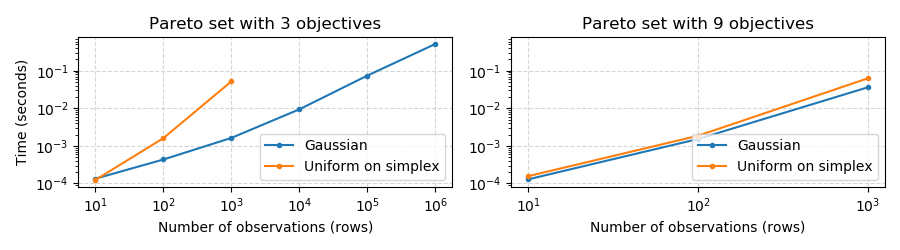
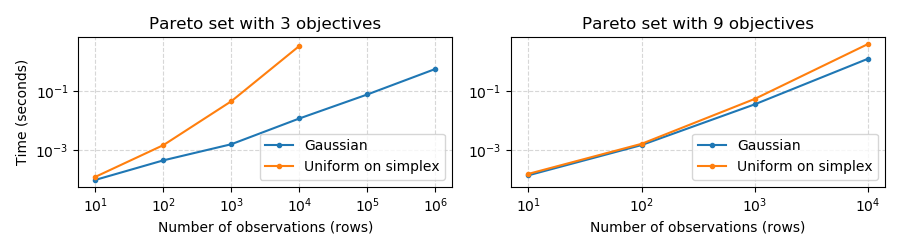
timing implementations. using Numba in main function if available

diff --git a/paretoset/user_interface.py b/paretoset/user_interface.py
@@ -6,6 +6,9 @@ from paretoset.utils import user_has_package, validate_inputs
 if user_has_package("pandas"):
     import pandas as pd
 
+if user_has_package("numba"):
+    from paretoset.algorithms_numba import paretoset_jit
+
 
 def paretoset(costs, sense=None, distinct=True, use_numba=True):
     """Return mask indicating the Pareto set of a NumPy array or pandas DataFrame.
@@ -49,12 +52,17 @@ def paretoset(costs, sense=None, distinct=True, use_numba=True):
     array([ True,  True])
     """
 
+    if user_has_package("numba") and use_numba:
+        paretoset_algorithm = paretoset_jit
+    else:
+        paretoset_algorithm = paretoset_efficient
+
     costs, sense = validate_inputs(costs=costs, sense=sense)
 
     # TODO: INF and NaN
 
     if sense is None:
-        return paretoset_efficient(costs, distinct=distinct)
+        return paretoset_algorithm(costs, distinct=distinct)
 
     n_costs, n_objectives = costs.shape
 
@@ -72,6 +80,11 @@ def paretoset(costs, sense=None, distinct=True, use_numba=True):
         return paretoset_efficient(costs, distinct=distinct)
 
     df = pd.DataFrame(costs)
+
+    # If `object` columns are present and they can be converted, do it.
+    for col in df.columns:
+        df[col] = pd.to_numeric(df[col], errors="coerce")
+
     is_efficient = np.zeros(n_costs, dtype=np.bool_)
 
     # Create the groupby object
@@ -83,8 +96,8 @@ def paretoset(costs, sense=None, distinct=True, use_numba=True):
     for key, data in groupby:
 
         # Get the relevant data for the group and compute the efficient points
-        relevant_data = data[max_cols + min_cols].to_numpy()
-        efficient_mask = paretoset_efficient(relevant_data.copy(), distinct=distinct)
+        relevant_data = data[max_cols + min_cols].to_numpy(copy=True)
+        efficient_mask = paretoset_algorithm(relevant_data.copy(), distinct=distinct)
 
         # The `pd.DataFrame.groupby.indices` dict holds the row indices of the group
         data_mask = groupby.indices[key]

diff --git a/scripts/timing.py b/scripts/timing.py
@@ -39,7 +39,7 @@ def get_times(observations, cost_func, algorithm, num_runs):
             start_time = time.time()
             algorithm(costs)
             elapsed = time.time() - start_time
-            if elapsed > 1:
+            if elapsed > 5:
                 return
             runs.append(elapsed)
 
